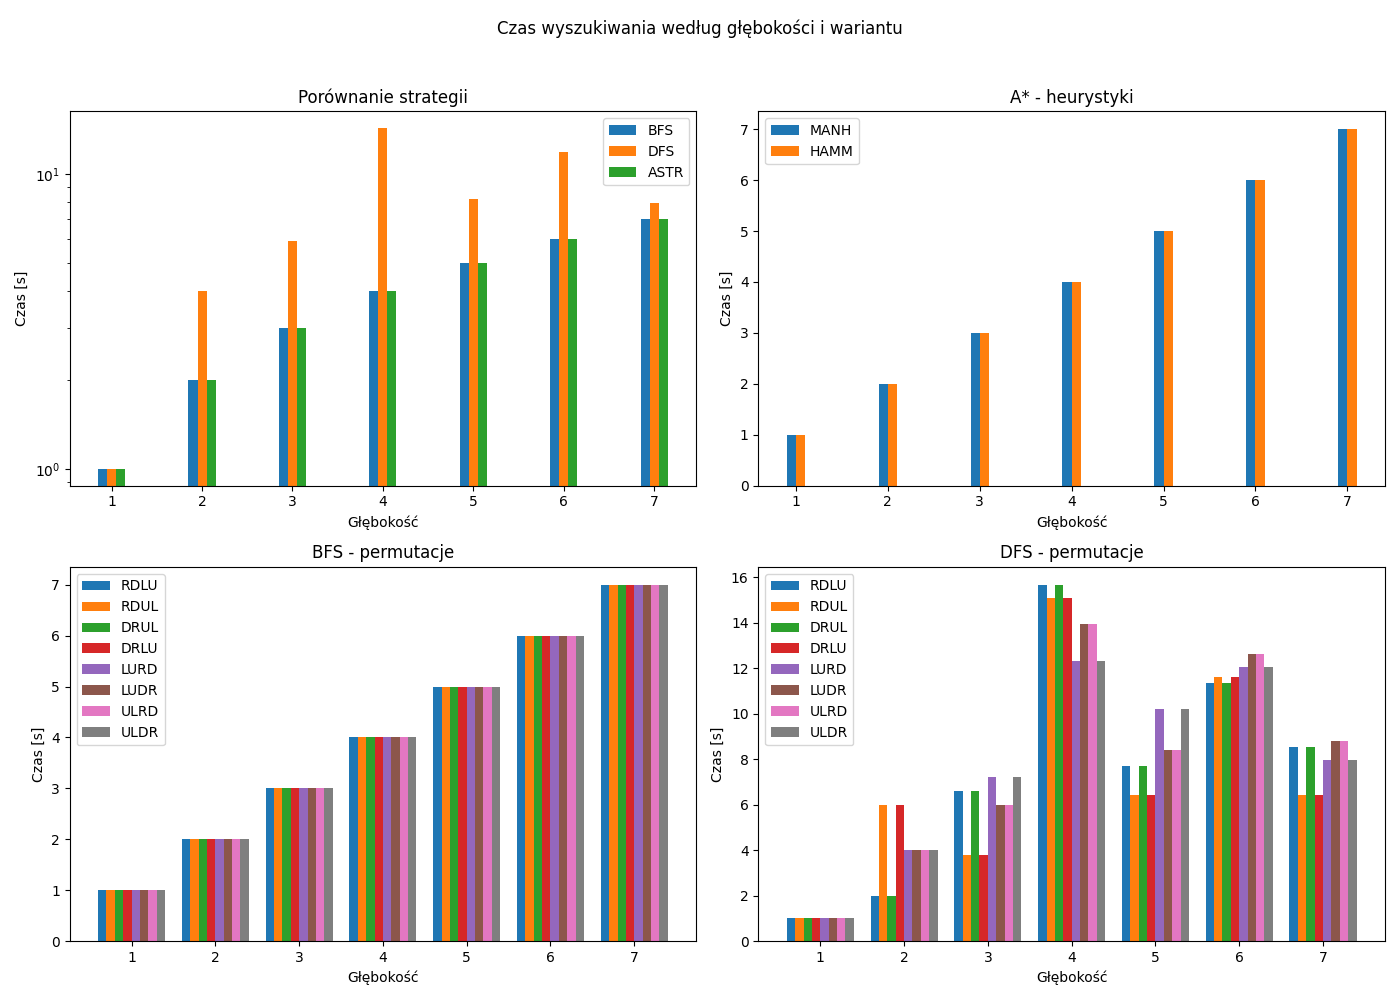
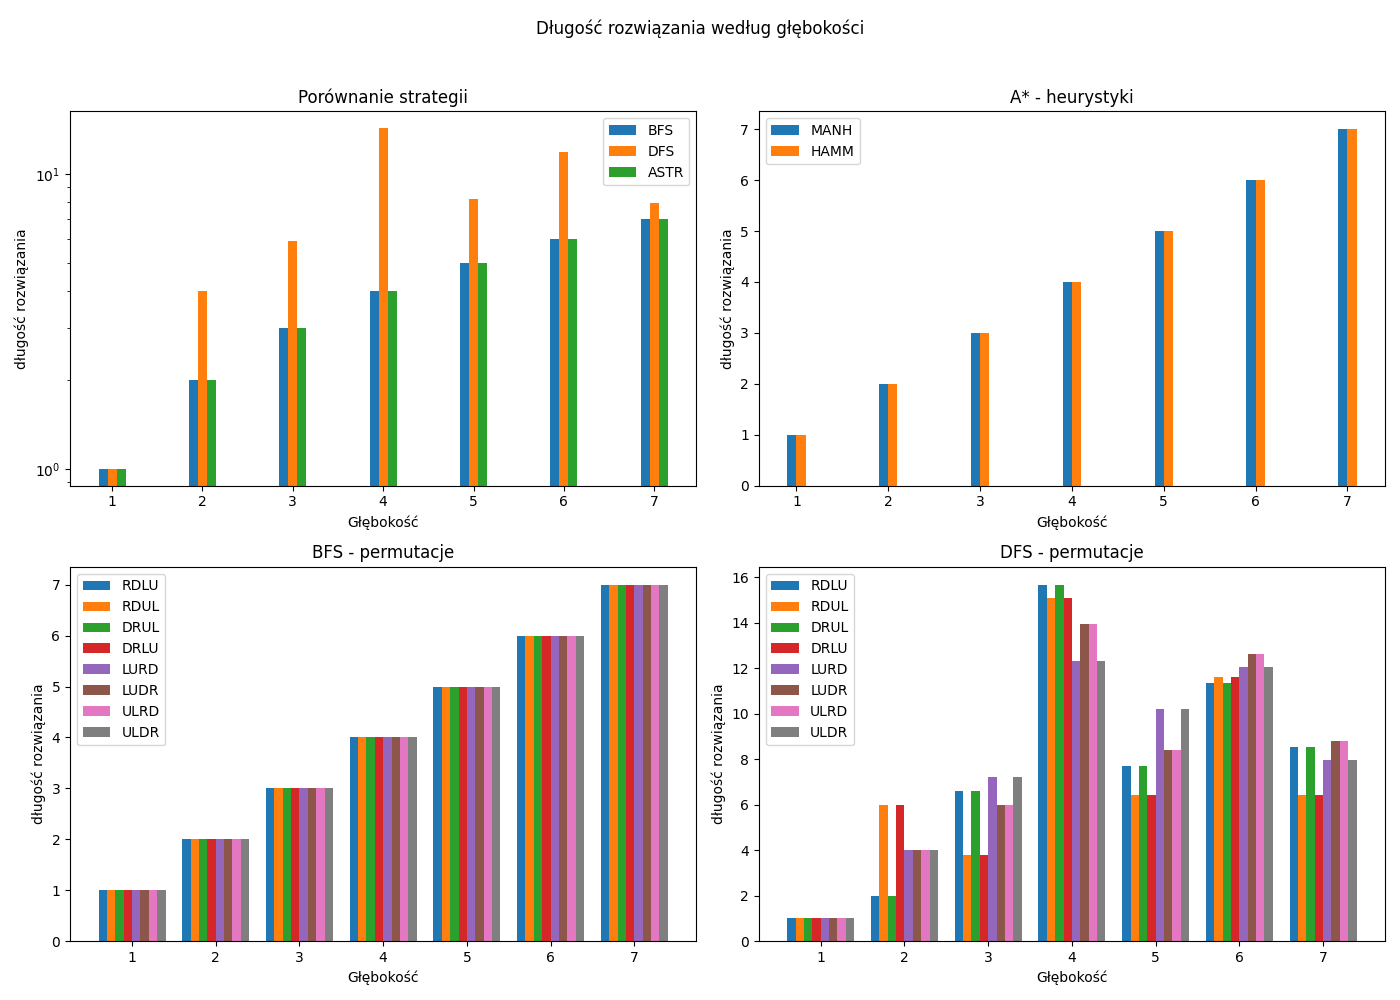
new

diff --git a/wykresy.py b/wykresy.py
@@ -3,7 +3,6 @@ import matplotlib.pyplot as plt
 import numpy as np
 from collections import defaultdict
 
-
 resultsDir = "analysis_results"
 
 
@@ -32,14 +31,16 @@ def plot_grouped_bars(grouped_data, metric_name, title, ylabel, filename):
         ax.set_xticks(x + width * (len(variants) - 1) / 2)
         ax.set_xticklabels(depths)
         ax.legend()
-
-        if subplot_idx == (0, 0) and (metric_name == "searchTime" or "visitedStates" or "processedStates"):
+        if subplot_idx == (0,0) and (
+                metric_name == "searchTime" or "processedStates" or "visitedStates" or "maxDepthRecursion"):
             ax.set_yscale('log')
 
     plt.tight_layout(rect=(0, 0, 1, 0.96))
     os.makedirs("plots", exist_ok=True)
     plt.savefig(filename)
     plt.close()
+
+
 
 
 data = []
@@ -49,10 +50,10 @@ dfs = []
 astr = []
 
 bfs_by_depth_perm = {
-    i: {perm: [] for perm in ["RDLU", "RDUL", "DRUL", "DRLU", "LURD","LUDR","ULRD", "ULDR"]} for i in
+    i: {perm: [] for perm in ["RDLU", "RDUL", "DRUL", "DRLU", "LURD", "LUDR", "ULRD", "ULDR"]} for i in
     range(1, 8)}
 dfs_by_depth_perm = {
-    i: {perm: [] for perm in ["RDLU", "RDUL", "DRUL", "DRLU", "LURD","LUDR","ULRD", "ULDR"]} for i in
+    i: {perm: [] for perm in ["RDLU", "RDUL", "DRUL", "DRLU", "LURD", "LUDR", "ULRD", "ULDR"]} for i in
     range(1, 8)}
 astr_by_depth_heur = {i: {heur: [] for heur in ["manh", "hamm"]} for i in range(1, 8)}
 
@@ -113,9 +114,6 @@ for filename in os.listdir(resultsDir):
             if variant in astr_by_depth_heur[depth]:
                 astr_by_depth_heur[depth][variant].append(result)
 
-
-
-
 plot_grouped_bars(
     grouped_data=[
         (
@@ -125,14 +123,17 @@ plot_grouped_bars(
             (0, 0)
         ),
         (astr_by_depth_heur, ["manh", "hamm"], "A* - heurystyki", (0, 1)),
-        (bfs_by_depth_perm, ["RDLU", "RDUL", "DRUL", "DRLU", "LURD","LUDR","ULRD", "ULDR"], "BFS - permutacje", (1, 0)),
-        (dfs_by_depth_perm, ["RDLU", "RDUL", "DRUL", "DRLU", "LURD","LUDR","ULRD", "ULDR"], "DFS - permutacje", (1, 1)),
+        (bfs_by_depth_perm, ["RDLU", "RDUL", "DRUL", "DRLU", "LURD", "LUDR", "ULRD", "ULDR"], "BFS - permutacje",
+         (1, 0)),
+        (dfs_by_depth_perm, ["RDLU", "RDUL", "DRUL", "DRLU", "LURD", "LUDR", "ULRD", "ULDR"], "DFS - permutacje",
+         (1, 1)),
     ],
     metric_name="searchTime",
     title="Czas wyszukiwania według głębokości i wariantu",
     ylabel="Czas [s]",
     filename="plots/searchTimePlot.png"
 )
+
 
 plot_grouped_bars(
     grouped_data=[
@@ -149,10 +150,11 @@ plot_grouped_bars(
          (1, 1)),
     ],
     metric_name="maxDepthRecursion",
-    title="Czas wyszukiwania według głębokości i wariantu",
-    ylabel="Czas [s]",
+    title="Maksymalna osiągnięta głębokość według głębokości i wariantu",
+    ylabel="maksymalna głębokość",
     filename="plots/maxDepthRecursionPlot.png"
 )
+
 
 plot_grouped_bars(
     grouped_data=[
@@ -169,10 +171,11 @@ plot_grouped_bars(
          (1, 1)),
     ],
     metric_name="processedStates",
-    title="Czas wyszukiwania według głębokości i wariantu",
-    ylabel="Czas [s]",
+    title="Przetworzone stany według głębokości i wariantu",
+    ylabel="przetworzone stany",
     filename="plots/processedStatesPlot.png"
 )
+
 
 plot_grouped_bars(
     grouped_data=[
@@ -189,10 +192,11 @@ plot_grouped_bars(
          (1, 1)),
     ],
     metric_name="visitedStates",
-    title="Czas wyszukiwania według głębokości i wariantu",
-    ylabel="Czas [s]",
+    title="Odwiedzone stany według głębokości i wariantu",
+    ylabel="odwiedzone stany",
     filename="plots/visitedStatesPlot.png"
 )
+
 
 plot_grouped_bars(
     grouped_data=[
@@ -209,7 +213,7 @@ plot_grouped_bars(
          (1, 1)),
     ],
     metric_name="solutionLength",
-    title="Czas wyszukiwania według głębokości i wariantu",
-    ylabel="Czas [s]",
+    title="Długość rozwiązania według głębokości",
+    ylabel="długość rozwiązania",
     filename="plots/solutionLengthPlot.png"
 )

diff --git a/fifteenPuzzleBFS.py b/fifteenPuzzleBFS.py
@@ -36,9 +36,3 @@ def breadth_first_search(initialNode, moveDirections, info, r, c):
     n.node.theEnd(initialNode, len(visitedStates), len(processedStates), time1, -1, info)
     return "Nie znaleziono rozwiązania"
 
-
-
-    time1 = round((time.time() - startTime) * 1000, 3)
-    info.setLengthFound(-1)
-    n.node.theEnd(initialNode, len(visitedStates), len(processedStates), time1, -1, info)
-    return "Nie znaleziono rozwiązania"
